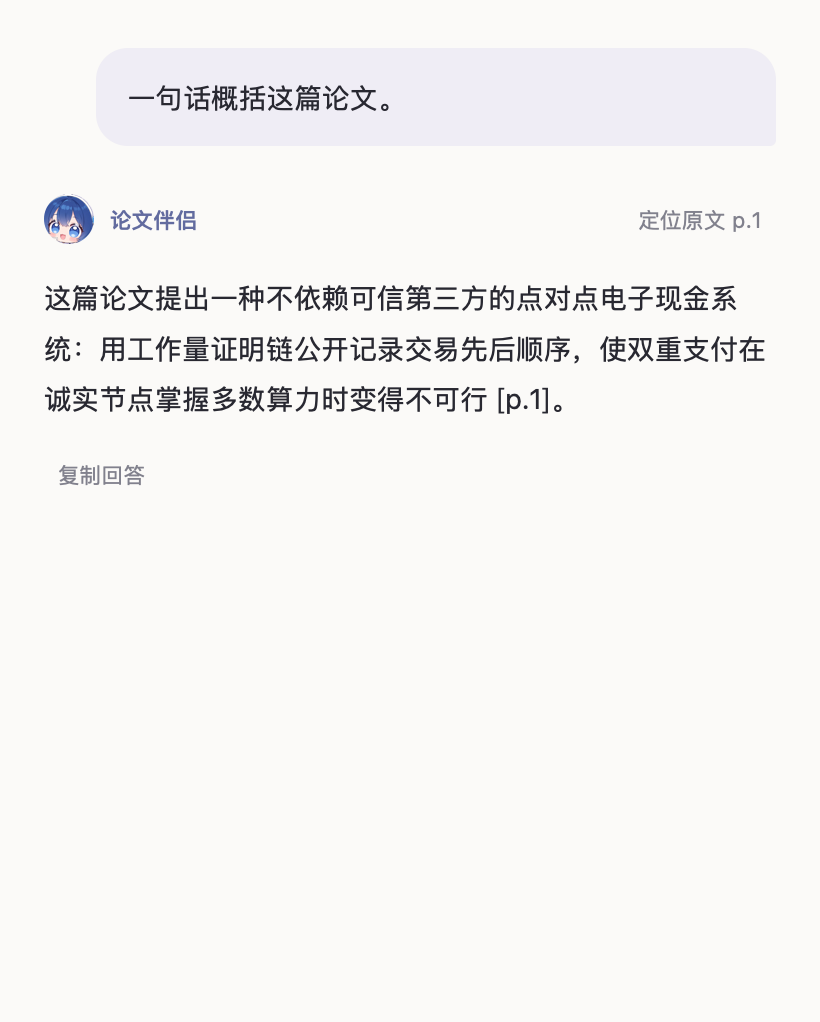
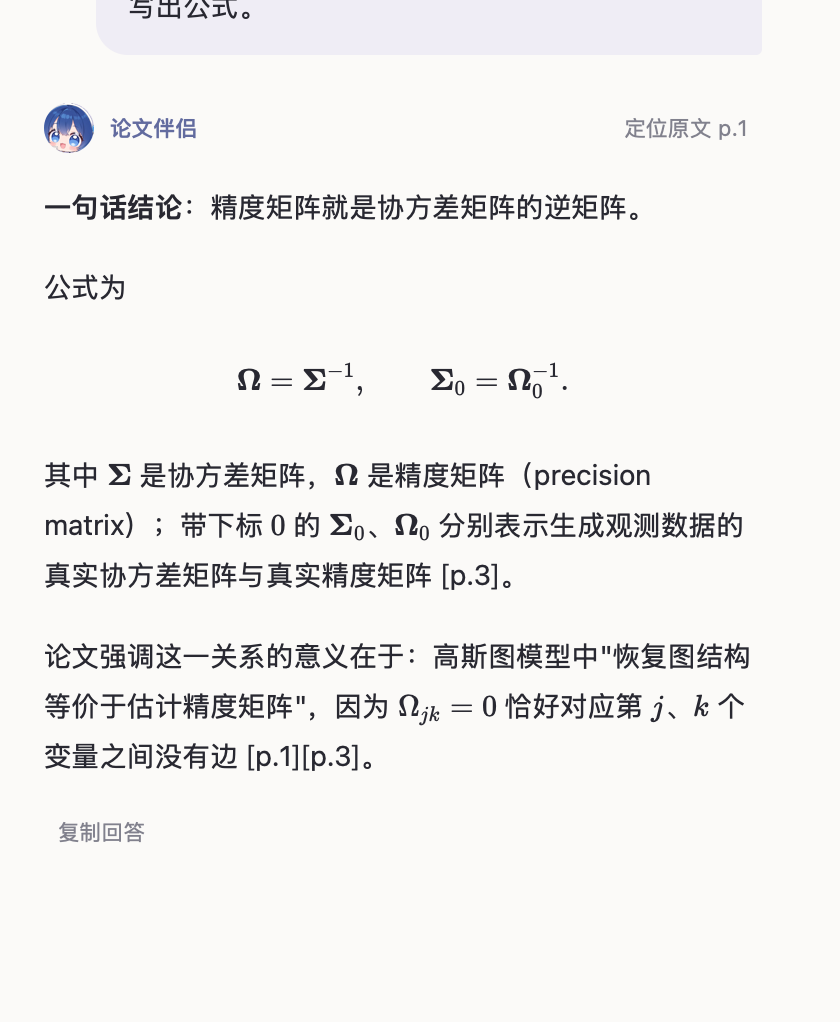
Docs: 2.3.1/2.4.3 downloads, splitter and \top notes

diff --git a/README.md b/README.md
@@ -3,13 +3,27 @@
 [![Build](https://github.com/zhaoy6859-svg/PaperCompanion/actions/workflows/build.yml/badge.svg)](https://github.com/zhaoy6859-svg/PaperCompanion/actions/workflows/build.yml)
 [![Release](https://img.shields.io/github/v/release/zhaoy6859-svg/PaperCompanion)](https://github.com/zhaoy6859-svg/PaperCompanion/releases/latest)
 [![License](https://img.shields.io/github/license/zhaoy6859-svg/PaperCompanion)](LICENSE)
-[![Platform](https://img.shields.io/badge/platform-macOS%2013%2B-black)](#安装)
+[![Platform](https://img.shields.io/badge/platform-macOS%20%7C%20Windows-black)](#安装)
+[![Windows](https://github.com/zhaoy6859-svg/PaperCompanion/actions/workflows/windows.yml/badge.svg)](https://github.com/zhaoy6859-svg/PaperCompanion/actions/workflows/windows.yml)
 
-**macOS 原生论文精读 App**：左边读 PDF，右边是 AI 伴侣。译文由 XeLaTeX 按原文版式重排，问答支持 Markdown / 公式 / 表格，可接任意 OpenAI 兼容模型（默认 DeepSeek）。
+**论文精读 App（macOS 原生版 + Windows 桌面预览版）**：左边读 PDF，右边是 AI 伴侣。译文由 XeLaTeX 按原文版式重排，问答支持 Markdown / 公式 / 表格，可接任意 OpenAI 兼容模型（默认 DeepSeek）。
 
-## ⬇ 直接下载安装
+## Windows 桌面预览版
 
-**[下载 论文伴侣 2.3.0（macOS 13+）](https://github.com/zhaoy6859-svg/PaperCompanion/releases/latest)** · DMG 5.9 MB
+**[下载 Windows 版 2.4.3](https://github.com/zhaoy6859-svg/PaperCompanion/releases/tag/v2.4.3-windows-beta.1)** · Windows 10/11 x64 · **已在实机演示通过**
+
+- `.exe` 安装程序；`.zip` 解压后运行 `PaperCompanion.exe`
+- 同一只伴侣：PDF 阅读、熟悉度、右侧问答、长对话记忆、多语言精翻、LaTeX 学习报告
+- 已移植**划线笔记**（页面上高亮、点开写笔记、右侧「笔记」页）和**框选识别**（截图交给视觉模型转写，需开启页面图片，不是离线 OCR）
+- 自带 Tectonic 排版引擎与中文字体；首次生成 PDF 需联网下载 TeX 排版资源
+- 阅读区与对话区之间可拖动调宽，宽度自动记住
+- 修复 `\top` 等常见公式命令导致的「不支持的 LaTeX 命令」；回答结构对齐网页版助手
+- 安装包未签名：SmartScreen 提示时选「更多信息 → 仍要运行」，可用 [SHA256SUMS.txt](https://github.com/zhaoy6859-svg/PaperCompanion/releases/download/v2.4.3-windows-beta.1/SHA256SUMS.txt) 校验
+- 每服务独立 Key、跨平台数据迁移尚未移植；细节见 [desktop/README.md](desktop/README.md)
+
+## ⬇ macOS 下载安装
+
+**[下载 论文伴侣 2.3.1（macOS 13+）](https://github.com/zhaoy6859-svg/PaperCompanion/releases/tag/v2.3.1)** · DMG 5.9 MB
 
 1. 打开上面的 Release 页面，下载 `PaperCompanion-2.3.1.dmg`
 2. 把「论文伴侣」拖进「应用程序」
@@ -18,11 +32,13 @@
 
 > 只阅读和问答不需要额外依赖；要让「译文 / 学习报告」排版跑通，需要本机安装 MacTeX 或 TeX Live（`xelatex`）。
 
+2.3.1：伴侣回答改为网页版结构（结论 → 原文引用 → 逐符号解释 → 类比/边界，数学强制 LaTeX）；阅读区与对话区可拖动调宽并记住宽度。
+
 觉得有用的话，点右上角 ⭐ **Star** 支持一下，也欢迎邮件交流：**zhaoy6859@gmail.com**
 
 ![论文伴侣：大肥鱼欢迎页](docs/welcome.png)
 
-<sub>**English** — Paper Companion is a native macOS app for reading papers: a PDF reader with an AI companion, Markdown/KaTeX chat, and on-demand XeLaTeX typeset translations that keep the paper's page size, margins and columns. Works with DeepSeek (default) and any OpenAI-compatible API. [Download the latest release](https://github.com/zhaoy6859-svg/PaperCompanion/releases/latest).</sub>
+<sub>**English** — Paper Companion is a paper reading app with a native macOS edition and a Windows desktop preview: a PDF reader with an AI companion, Markdown/KaTeX chat, and on-demand XeLaTeX typeset translations that keep the paper's page size, margins and columns. Works with DeepSeek (default) and any OpenAI-compatible API. [Download the latest release](https://github.com/zhaoy6859-svg/PaperCompanion/releases/latest).</sub>
 
 ## 界面
 
